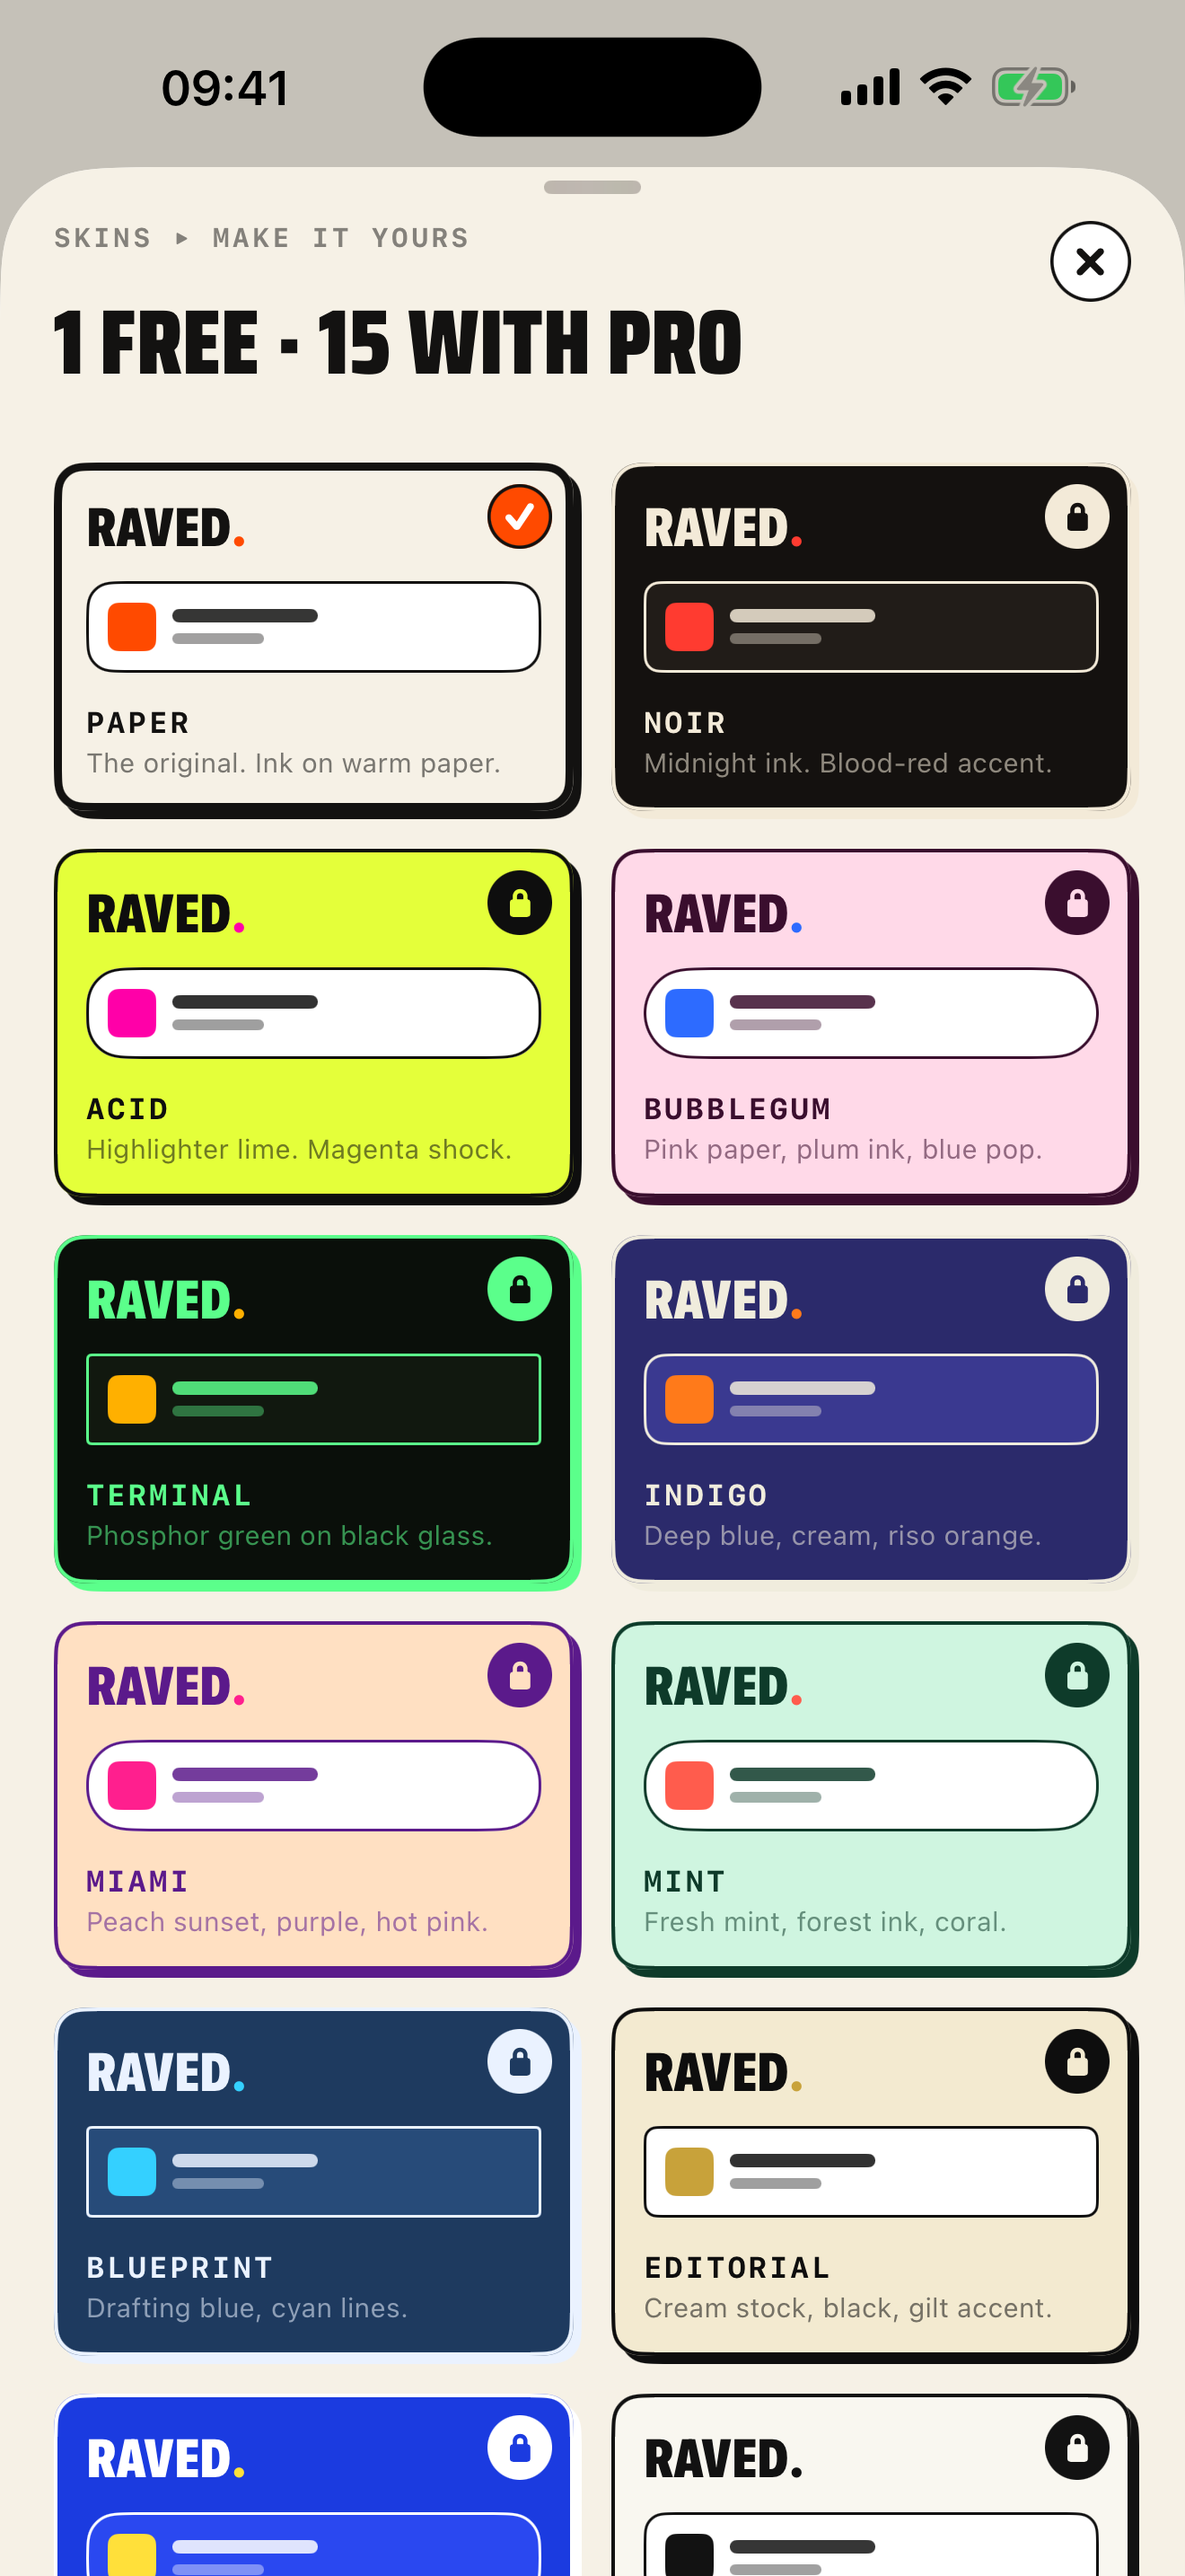
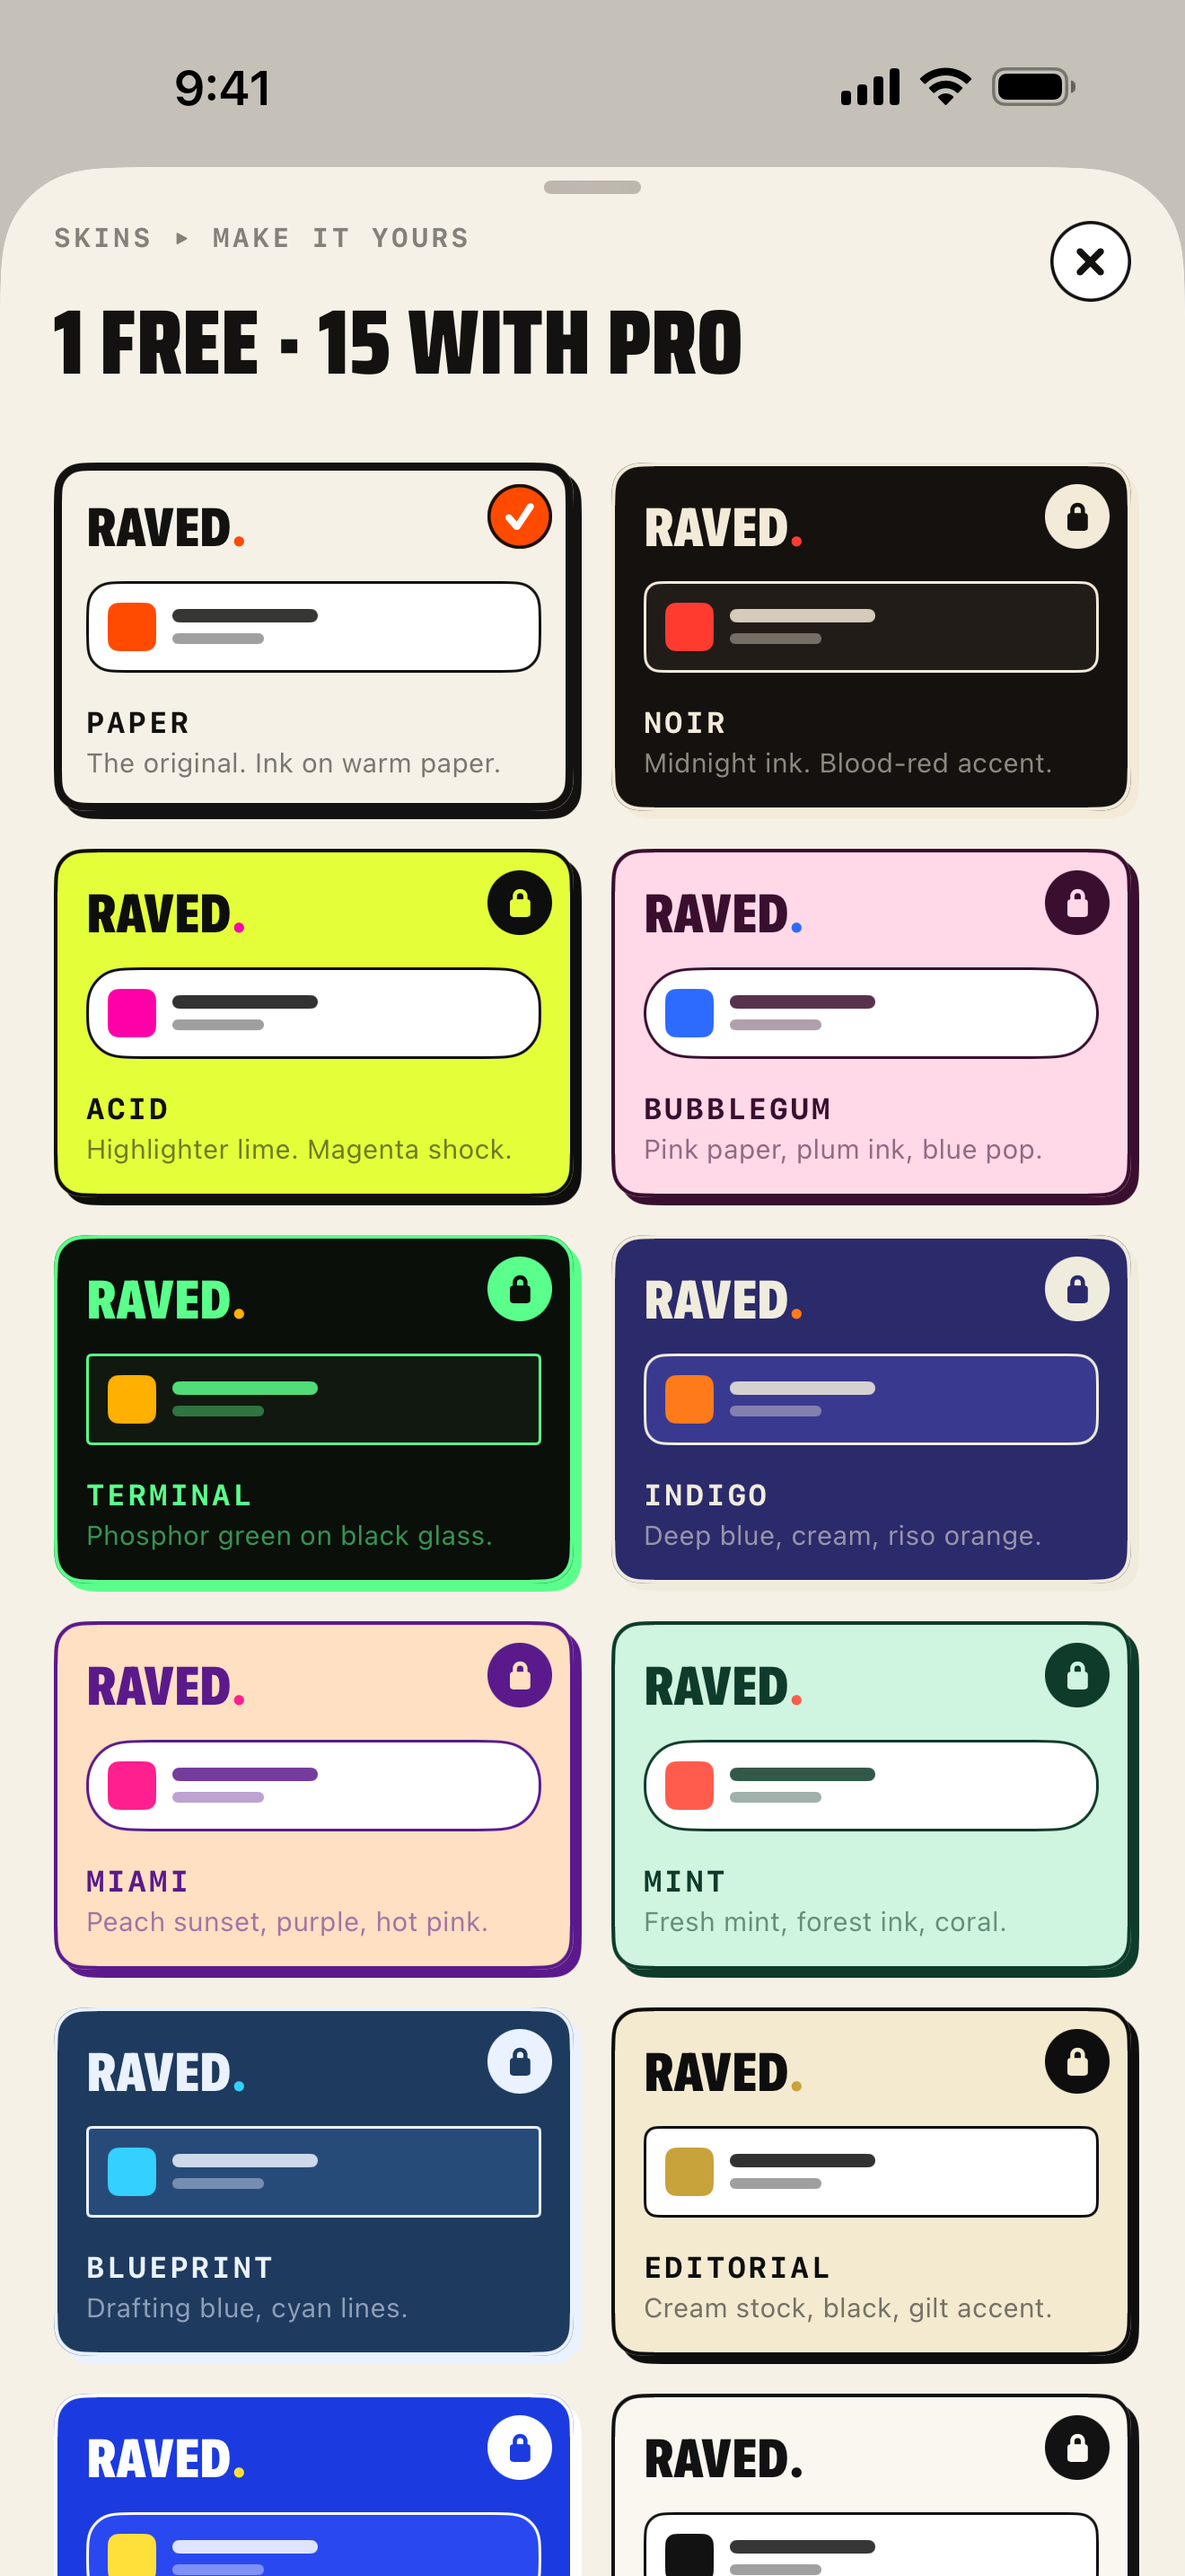
Raved ficha: fresh English iOS and Android captures from the 2026-10-17 store set

Changed region(s): [[0.3417, 0.0, 0.6523, 0.0621], [0.1242, 0.031, 0.2485, 0.0621], [0.8386, 0.031, 0.9008, 0.0621]]

diff --git a/data/portfolio.ts b/data/portfolio.ts
@@ -204,6 +204,7 @@ export const products: AppProduct[] = [
     siteUrl: 'https://raved.app',
     icon: '/apps/raved-icon.png',
     screens: ['/apps/raved-screen-1.png', '/apps/raved-screen-2.png', '/apps/raved-screen-3.png'],
+    androidScreens: ['/apps/raved-android-1.png', '/apps/raved-android-2.png', '/apps/raved-android-3.png'],
     appStoreUrl: 'https://apps.apple.com/app/id6784197175',
     playStoreUrl: 'https://play.google.com/store/apps/details?id=com.beatlabs.raved',
     stats: [

diff --git a/public/apps/PROVENANCE.md b/public/apps/PROVENANCE.md
@@ -4,7 +4,8 @@ All files are real brand assets; none is generated.
 
 - nibango-icon.png, curb-icon.png — the products' App Store / Play Store icons, supplied by the owner (BeatLabs FZE LLC).
 - raved-icon.png — the new Raved app icon (the "R." mark), pasted by the owner in the design session on 2026-09-02; replaces the earlier raved-icon.jpg.
-- raved-screen-1.png, raved-screen-2.png, raved-screen-3.png — real Raved app captures supplied by the owner.
+- raved-screen-1.png, raved-screen-2.png, raved-screen-3.png — captures of the real Raved iOS app (iPhone 6.9" simulator, 1320×2868) taken on 2026-10-17 with the app's screenshot mode and demo raves, English UI; copied from the owner's App Store set in `~/Apps/Raved assets/App Store Screenshots/en` (Home, Surprise me, Skins). The UI is the shipped app, the raves are demo data.
+- raved-android-1.png, raved-android-2.png, raved-android-3.png — captures of the real Raved Android app (1080×2400) taken on 2026-10-17 with the same screenshot mode, English UI; copied from the owner's Google Play set in `~/Apps/Raved assets/Android Screenshots/en` (Home, Surprise me, Skins). The UI is the shipped app, the raves are demo data.
 - curb-screen-1.png, curb-screen-2.png, curb-screen-3.png — captures of the real Curb iOS app (Debug build of `main` @ dff4700 = released 1.2.3, iPhone 17 Pro Max simulator on iOS 26.2, 1320×2868) retaken on 2026-10-17 with the app's screenshot mode (`-screenshotMode -seedDemo -screenshotScene`), English UI, en_US: Subscriptions, Calendar, Detail. The UI is the shipped app, the subscriptions are demo data.
 - curb-android-1.png, curb-android-2.png, curb-android-3.png — captures of the real Curb Android app (1.2.3 / vc44 store screenshot mode, 1080×2400) taken on 2026-10-14 for the Play listing, English UI, copied from the owner's `curb-Assets/Android Screenshots/en` set: Subscriptions, Calendar, Detail. The UI is the shipped app, the subscriptions are demo data.
 - nibango-android-1.png, nibango-android-2.png, nibango-android-3.png — captures of the real Nibango Android app (debug build against the local demo server on the `NibangoProductionQA_20261004` emulator, 1080×2400, demo status bar) taken on 2026-10-08 with `nibangoApp/scripts/store-demo/capture_android.py en`, signed in as the `layla_k` demo buyer; copied from the owner's English Google Play screenshot set (Home, Listing, Chat). The UI is the shipped app (1.0 build 34 era; Play ships build 38), the listings, chat and Dubai places are demo data from `nibangoApp/scripts/store-demo/texts.json`. No iOS captures while the iPhone app is not on the App Store.
